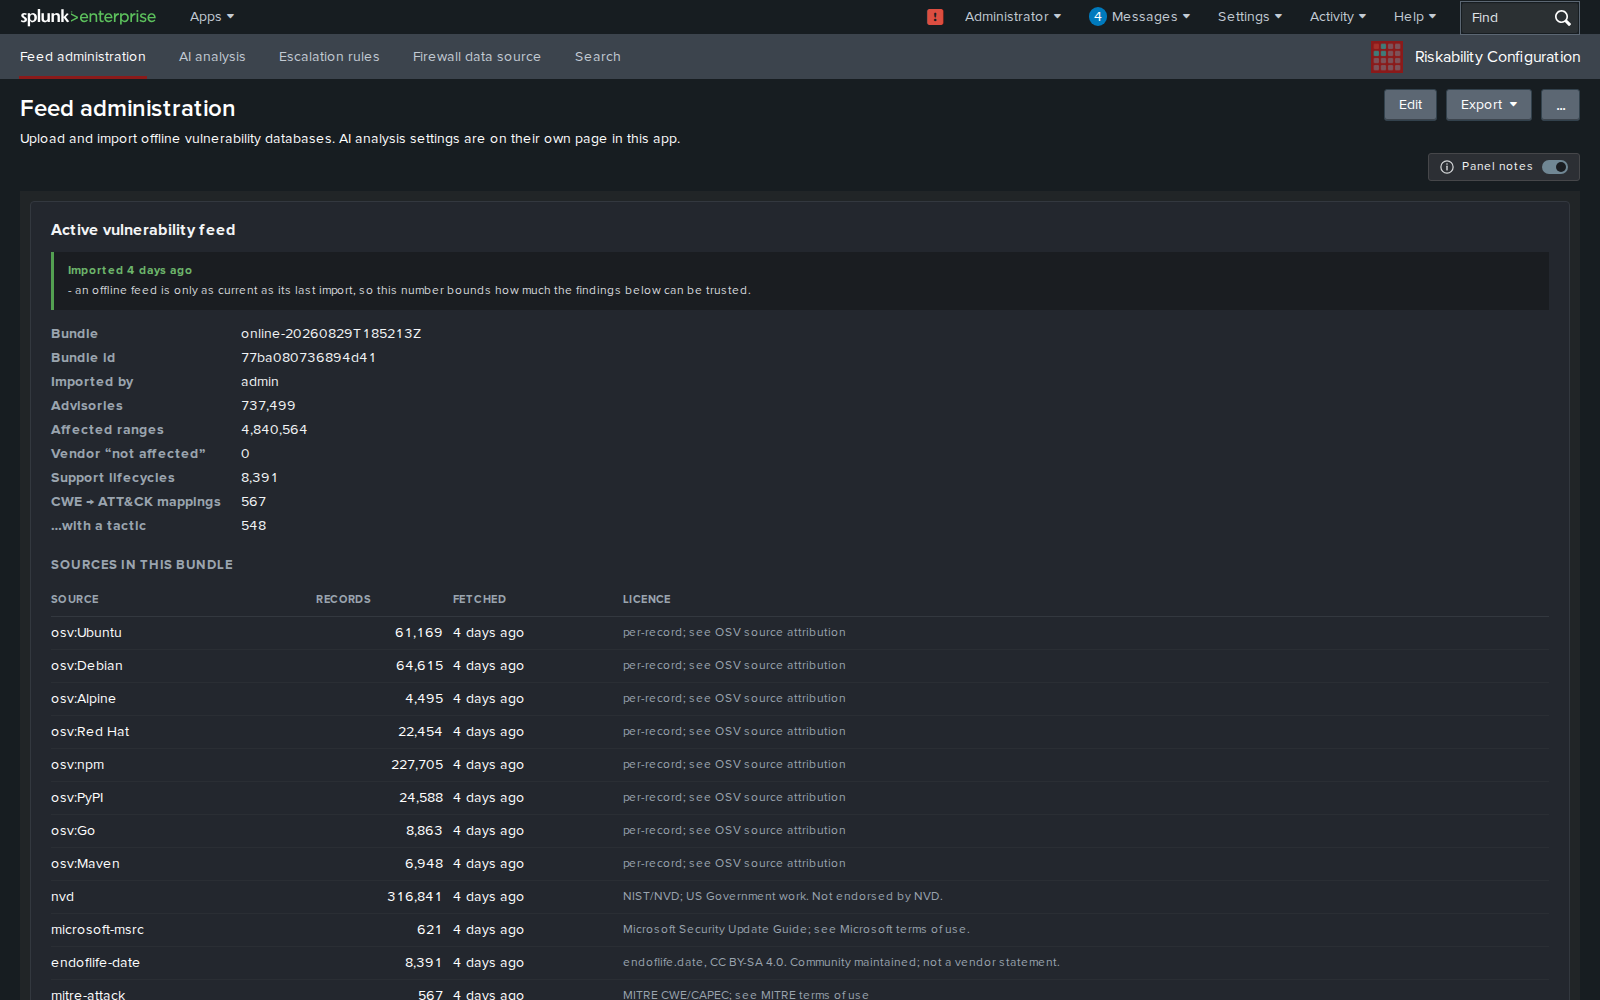
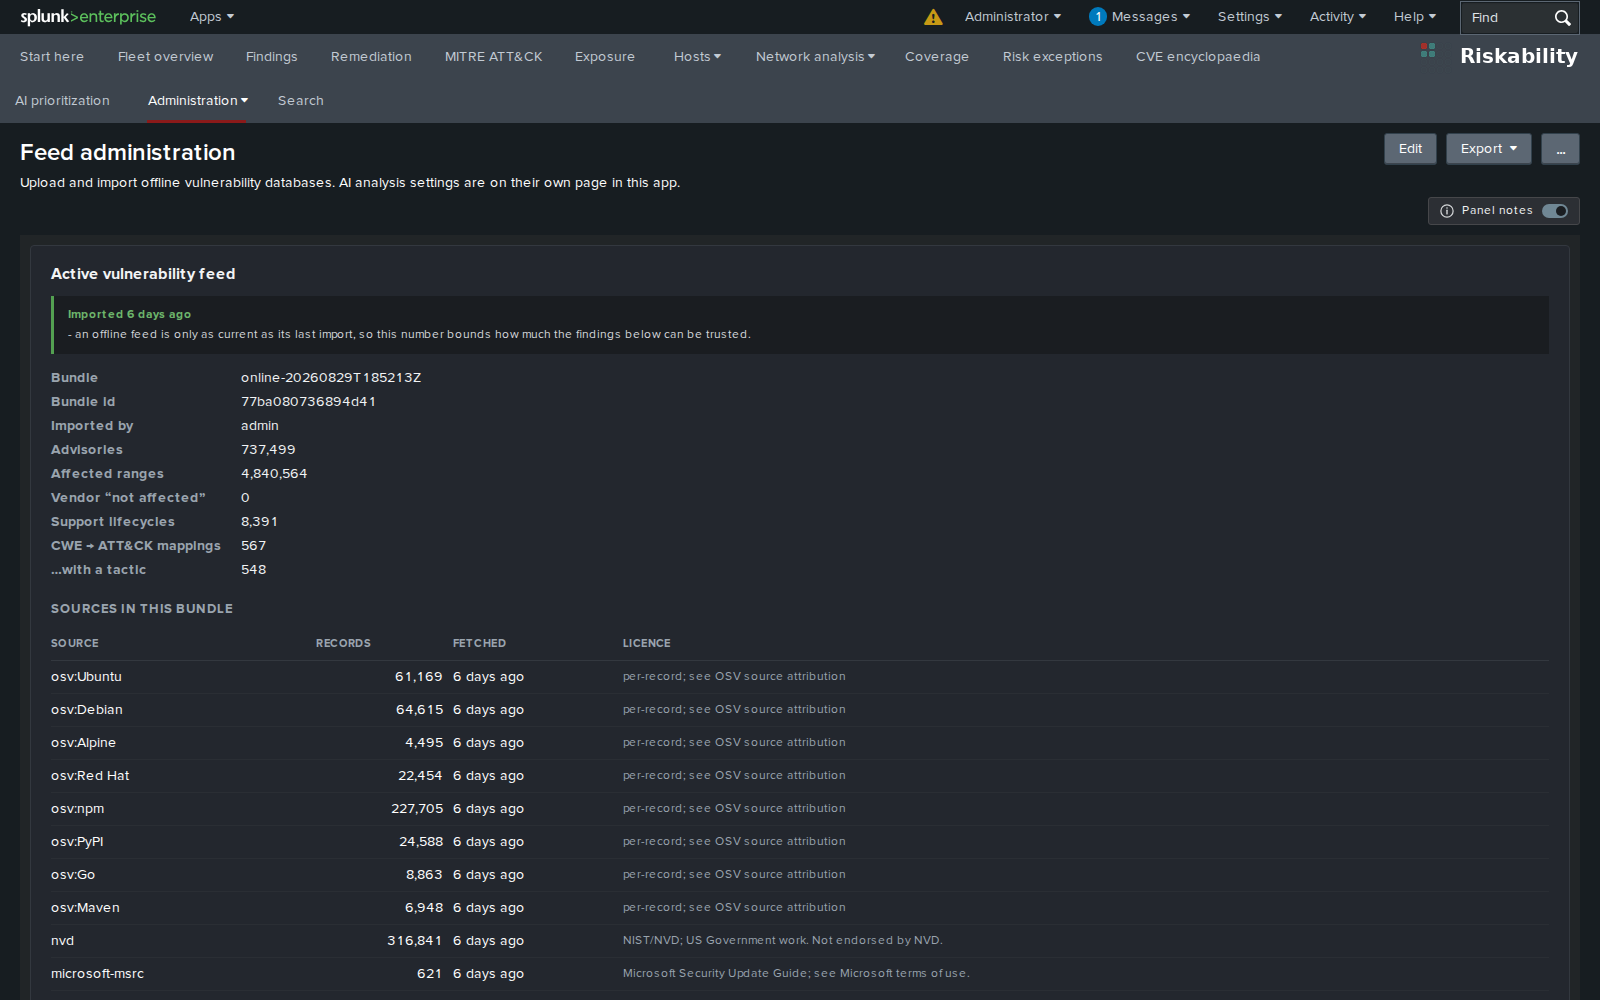
Recapture the Administration pages, which still showed an app that is gone
The gallery advertised the configuration pages as they looked when they lived
in a separate riskability-config app: the chrome named "Riskability
Configuration" and carried that app's own four-item navigation bar. That app
was folded into the main app in 1.4.0, so the captures were showing a customer
something they cannot install.

Retaken from a 1.4.1 instance. All three now show the app named Riskability,
its full navigation bar, and the Administration menu the pages actually sit
under. Nothing else about them changed: same viewport, same pages, same data.

feed-import-progress.png is untouched. It is a tight crop of the import banner
with no navigation in it, so it was never wrong.

Claude-Session: https://claude.ai/code/session_015h4XPQmzofVzmoNycK2dQN

diff --git a/docs/index.html b/docs/index.html
@@ -76,11 +76,11 @@
       </figure>
       <figure class="card" id="admin-escalation-rules" data-name="admin-escalation-rules">
         <a href="screenshots/admin-escalation-rules.png" target="_blank" rel="noopener"><img loading="lazy" src="screenshots/admin-escalation-rules.png" alt="Escalation rules (admin)"></a>
-        <figcaption><b>Escalation rules (admin)</b> <span class="dim">Every rule with a switch, the replay of what each would move against the fleet as it stands, and locked rules with the reason they cannot be enabled.</span><span class="date">2026-09-03</span></figcaption>
+        <figcaption><b>Escalation rules (admin)</b> <span class="dim">Every rule with a switch, the replay of what each would move against the fleet as it stands, and locked rules with the reason they cannot be enabled.</span><span class="date">2026-09-05</span></figcaption>
       </figure>
       <figure class="card" id="admin-firewall-source" data-name="admin-firewall-source">
         <a href="screenshots/admin-firewall-source.png" target="_blank" rel="noopener"><img loading="lazy" src="screenshots/admin-firewall-source.png" alt="Firewall data source (admin)"></a>
-        <figcaption><b>Firewall data source (admin)</b> <span class="dim">Index or accelerated data model, field mapping, entry points with their scan pressure, freshness; Test source and Show top 100 edges before Save.</span><span class="date">2026-09-03</span></figcaption>
+        <figcaption><b>Firewall data source (admin)</b> <span class="dim">Index or accelerated data model, field mapping, entry points with their scan pressure, freshness; Test source and Show top 100 edges before Save.</span><span class="date">2026-09-05</span></figcaption>
       </figure>
 </div>
 <h2>Everything else</h2>
@@ -99,11 +99,11 @@
       </figure>
       <figure class="card" id="coverage" data-name="coverage">
         <a href="screenshots/coverage.png" target="_blank" rel="noopener"><img loading="lazy" src="screenshots/coverage.png" alt="Coverage"></a>
-        <figcaption><b>Coverage</b> <span class="dim">The honest page. What the imported feed cannot assess and why, whether everything the collector found actually arrived, Windows patch level against Microsoft&#x27;s own build data, and the support timeline.</span><span class="date">2026-08-23</span></figcaption>
+        <figcaption><b>Coverage</b> <span class="dim">The honest page. What the imported feed cannot assess and why, whether everything the collector found actually arrived, Windows patch level against Microsoft&#x27;s own build data, and the support timeline.</span><span class="date">2026-09-03</span></figcaption>
       </figure>
       <figure class="card" id="cve-encyclopaedia" data-name="cve-encyclopaedia">
         <a href="screenshots/cve-encyclopaedia.png" target="_blank" rel="noopener"><img loading="lazy" src="screenshots/cve-encyclopaedia.png" alt="CVE encyclopaedia"></a>
-        <figcaption><b>CVE encyclopaedia</b> <span class="dim">What any vulnerability the feed carries actually is, and where it sits in this fleet. Entirely offline.</span><span class="date">2026-08-23</span></figcaption>
+        <figcaption><b>CVE encyclopaedia</b> <span class="dim">What any vulnerability the feed carries actually is, and where it sits in this fleet. Entirely offline.</span><span class="date">2026-09-03</span></figcaption>
       </figure>
       <figure class="card" id="end-of-support" data-name="end-of-support">
         <a href="screenshots/end-of-support.png" target="_blank" rel="noopener"><img loading="lazy" src="screenshots/end-of-support.png" alt="End of support"></a>
@@ -115,11 +115,11 @@
       </figure>
       <figure class="card" id="exposure" data-name="exposure">
         <a href="screenshots/exposure.png" target="_blank" rel="noopener"><img loading="lazy" src="screenshots/exposure.png" alt="Exposure"></a>
-        <figcaption><b>Exposure</b> <span class="dim">The priority matrix, open findings by network reach against exploitation likelihood, the most exposed hosts, and the chain the network takes: edge, listening process, container, package, CVE.</span><span class="date">2026-08-23</span></figcaption>
+        <figcaption><b>Exposure</b> <span class="dim">The priority matrix, open findings by network reach against exploitation likelihood, the most exposed hosts, and the chain the network takes: edge, listening process, container, package, CVE.</span><span class="date">2026-09-03</span></figcaption>
       </figure>
       <figure class="card" id="feed-administration" data-name="feed-administration">
         <a href="screenshots/feed-administration.png" target="_blank" rel="noopener"><img loading="lazy" src="screenshots/feed-administration.png" alt="Feed administration (admin)"></a>
-        <figcaption><b>Feed administration (admin)</b> <span class="dim">Build, upload and import bundles, fetch sources directly on an instance that has a route out, and set index names. In the Riskability Configuration app, administrators only.</span><span class="date">2026-08-23</span></figcaption>
+        <figcaption><b>Feed administration (admin)</b> <span class="dim">Build, upload and import bundles, fetch sources directly on an instance that has a route out, and set index names. Under the Administration menu of the app, drawn for administrators only.</span><span class="date">2026-09-05</span></figcaption>
       </figure>
       <figure class="card" id="feed-import-progress" data-name="feed-import-progress">
         <a href="screenshots/feed-import-progress.png" target="_blank" rel="noopener"><img loading="lazy" src="screenshots/feed-import-progress.png" alt="Feed import in progress (admin)"></a>
@@ -127,19 +127,19 @@
       </figure>
       <figure class="card" id="findings" data-name="findings">
         <a href="screenshots/findings.png" target="_blank" rel="noopener"><img loading="lazy" src="screenshots/findings.png" alt="Findings"></a>
-        <figcaption><b>Findings</b> <span class="dim">Every finding ranked by EPSS rather than CVSS, with confidence, KEV status and the fixed version where one is known. Column filters narrow what is shown, not what was searched.</span><span class="date">2026-08-23</span></figcaption>
+        <figcaption><b>Findings</b> <span class="dim">Every finding ranked by EPSS rather than CVSS, with confidence, KEV status and the fixed version where one is known. Column filters narrow what is shown, not what was searched.</span><span class="date">2026-09-03</span></figcaption>
       </figure>
       <figure class="card" id="fleet-overview" data-name="fleet-overview">
         <a href="screenshots/fleet-overview.png" target="_blank" rel="noopener"><img loading="lazy" src="screenshots/fleet-overview.png" alt="Fleet overview"></a>
-        <figcaption><b>Fleet overview</b> <span class="dim">How stale the feed is, how many hosts are reporting, and where the open findings are concentrated.</span><span class="date">2026-08-23</span></figcaption>
+        <figcaption><b>Fleet overview</b> <span class="dim">How stale the feed is, how many hosts are reporting, and where the open findings are concentrated.</span><span class="date">2026-09-03</span></figcaption>
       </figure>
       <figure class="card" id="host-detail" data-name="host-detail">
         <a href="screenshots/host-detail.png" target="_blank" rel="noopener"><img loading="lazy" src="screenshots/host-detail.png" alt="Host detail"></a>
         <figcaption><b>Host detail</b> <span class="dim">Everything known about one machine, as a dossier: identity and four clocks, what has been measured and what has not, what to do first, its findings, configuration surface, exposure, patch level and unsupported software.</span><span class="date">2026-09-03</span></figcaption>
       </figure>
       <figure class="card" id="hosts" data-name="hosts">
-        <a href="screenshots/hosts.png" target="_blank" rel="noopener"><img loading="lazy" src="screenshots/hosts.png" alt="Hosts"></a>
-        <figcaption><b>Hosts</b> <span class="dim">Every host at a glance, split by filesystem root, so a package inside a container is never confused with the same package on the host.</span><span class="date">2026-08-23</span></figcaption>
+        <a href="screenshots/hosts.png" target="_blank" rel="noopener"><img loading="lazy" src="screenshots/hosts.png" alt="Host overview"></a>
+        <figcaption><b>Host overview</b> <span class="dim">Every host at a glance, split by filesystem root, so a package inside a container is never confused with the same package on the host.</span><span class="date">2026-09-03</span></figcaption>
       </figure>
       <figure class="card" id="kev-bridge" data-name="kev-bridge">
         <a href="screenshots/kev-bridge.png" target="_blank" rel="noopener"><img loading="lazy" src="screenshots/kev-bridge.png" alt="Known exploited to technique"></a>
@@ -151,19 +151,19 @@
       </figure>
       <figure class="card" id="mitre-attack" data-name="mitre-attack">
         <a href="screenshots/mitre-attack.png" target="_blank" rel="noopener"><img loading="lazy" src="screenshots/mitre-attack.png" alt="MITRE ATT&amp;CK"></a>
-        <figcaption><b>MITRE ATT&amp;CK</b> <span class="dim">Which adversary techniques the open findings could enable, built from four kinds of evidence that carry different strengths of claim and are never blended into one number.</span><span class="date">2026-08-23</span></figcaption>
+        <figcaption><b>MITRE ATT&amp;CK</b> <span class="dim">Which adversary techniques the open findings could enable, built from four kinds of evidence that carry different strengths of claim and are never blended into one number.</span><span class="date">2026-09-03</span></figcaption>
       </figure>
       <figure class="card" id="remediation" data-name="remediation">
         <a href="screenshots/remediation.png" target="_blank" rel="noopener"><img loading="lazy" src="screenshots/remediation.png" alt="Remediation"></a>
-        <figcaption><b>Remediation</b> <span class="dim">What was actually fixed, and what merely stopped being reported. Installer artifacts closed with their own reason are counted as neither.</span><span class="date">2026-08-23</span></figcaption>
+        <figcaption><b>Remediation</b> <span class="dim">What was actually fixed, and what merely stopped being reported. Installer artifacts closed with their own reason are counted as neither.</span><span class="date">2026-09-03</span></figcaption>
       </figure>
       <figure class="card" id="risk-exceptions" data-name="risk-exceptions">
         <a href="screenshots/risk-exceptions.png" target="_blank" rel="noopener"><img loading="lazy" src="screenshots/risk-exceptions.png" alt="Risk exceptions"></a>
-        <figcaption><b>Risk exceptions</b> <span class="dim">Findings someone accepted, why, until when, and who said so. Written to an audit index that is appended to and never rewritten.</span><span class="date">2026-08-23</span></figcaption>
+        <figcaption><b>Risk exceptions</b> <span class="dim">Findings someone accepted, why, until when, and who said so. Written to an audit index that is appended to and never rewritten.</span><span class="date">2026-09-03</span></figcaption>
       </figure>
       <figure class="card" id="start-here" data-name="start-here">
         <a href="screenshots/start-here.png" target="_blank" rel="noopener"><img loading="lazy" src="screenshots/start-here.png" alt="Start here"></a>
-        <figcaption><b>Start here</b> <span class="dim">The default landing page. What every number on the other pages means and, just as importantly, what it does not.</span><span class="date">2026-08-23</span></figcaption>
+        <figcaption><b>Start here</b> <span class="dim">The default landing page. What every number on the other pages means and, just as importantly, what it does not.</span><span class="date">2026-09-03</span></figcaption>
       </figure>
 </div>
 <footer>Served by GitHub Pages from the <code>docs/</code> folder of <a href="https://github.com/chaugan/riskability">chaugan/riskability</a>. Re-run <code>tools/build_gallery.py</code> after adding captures.</footer>
